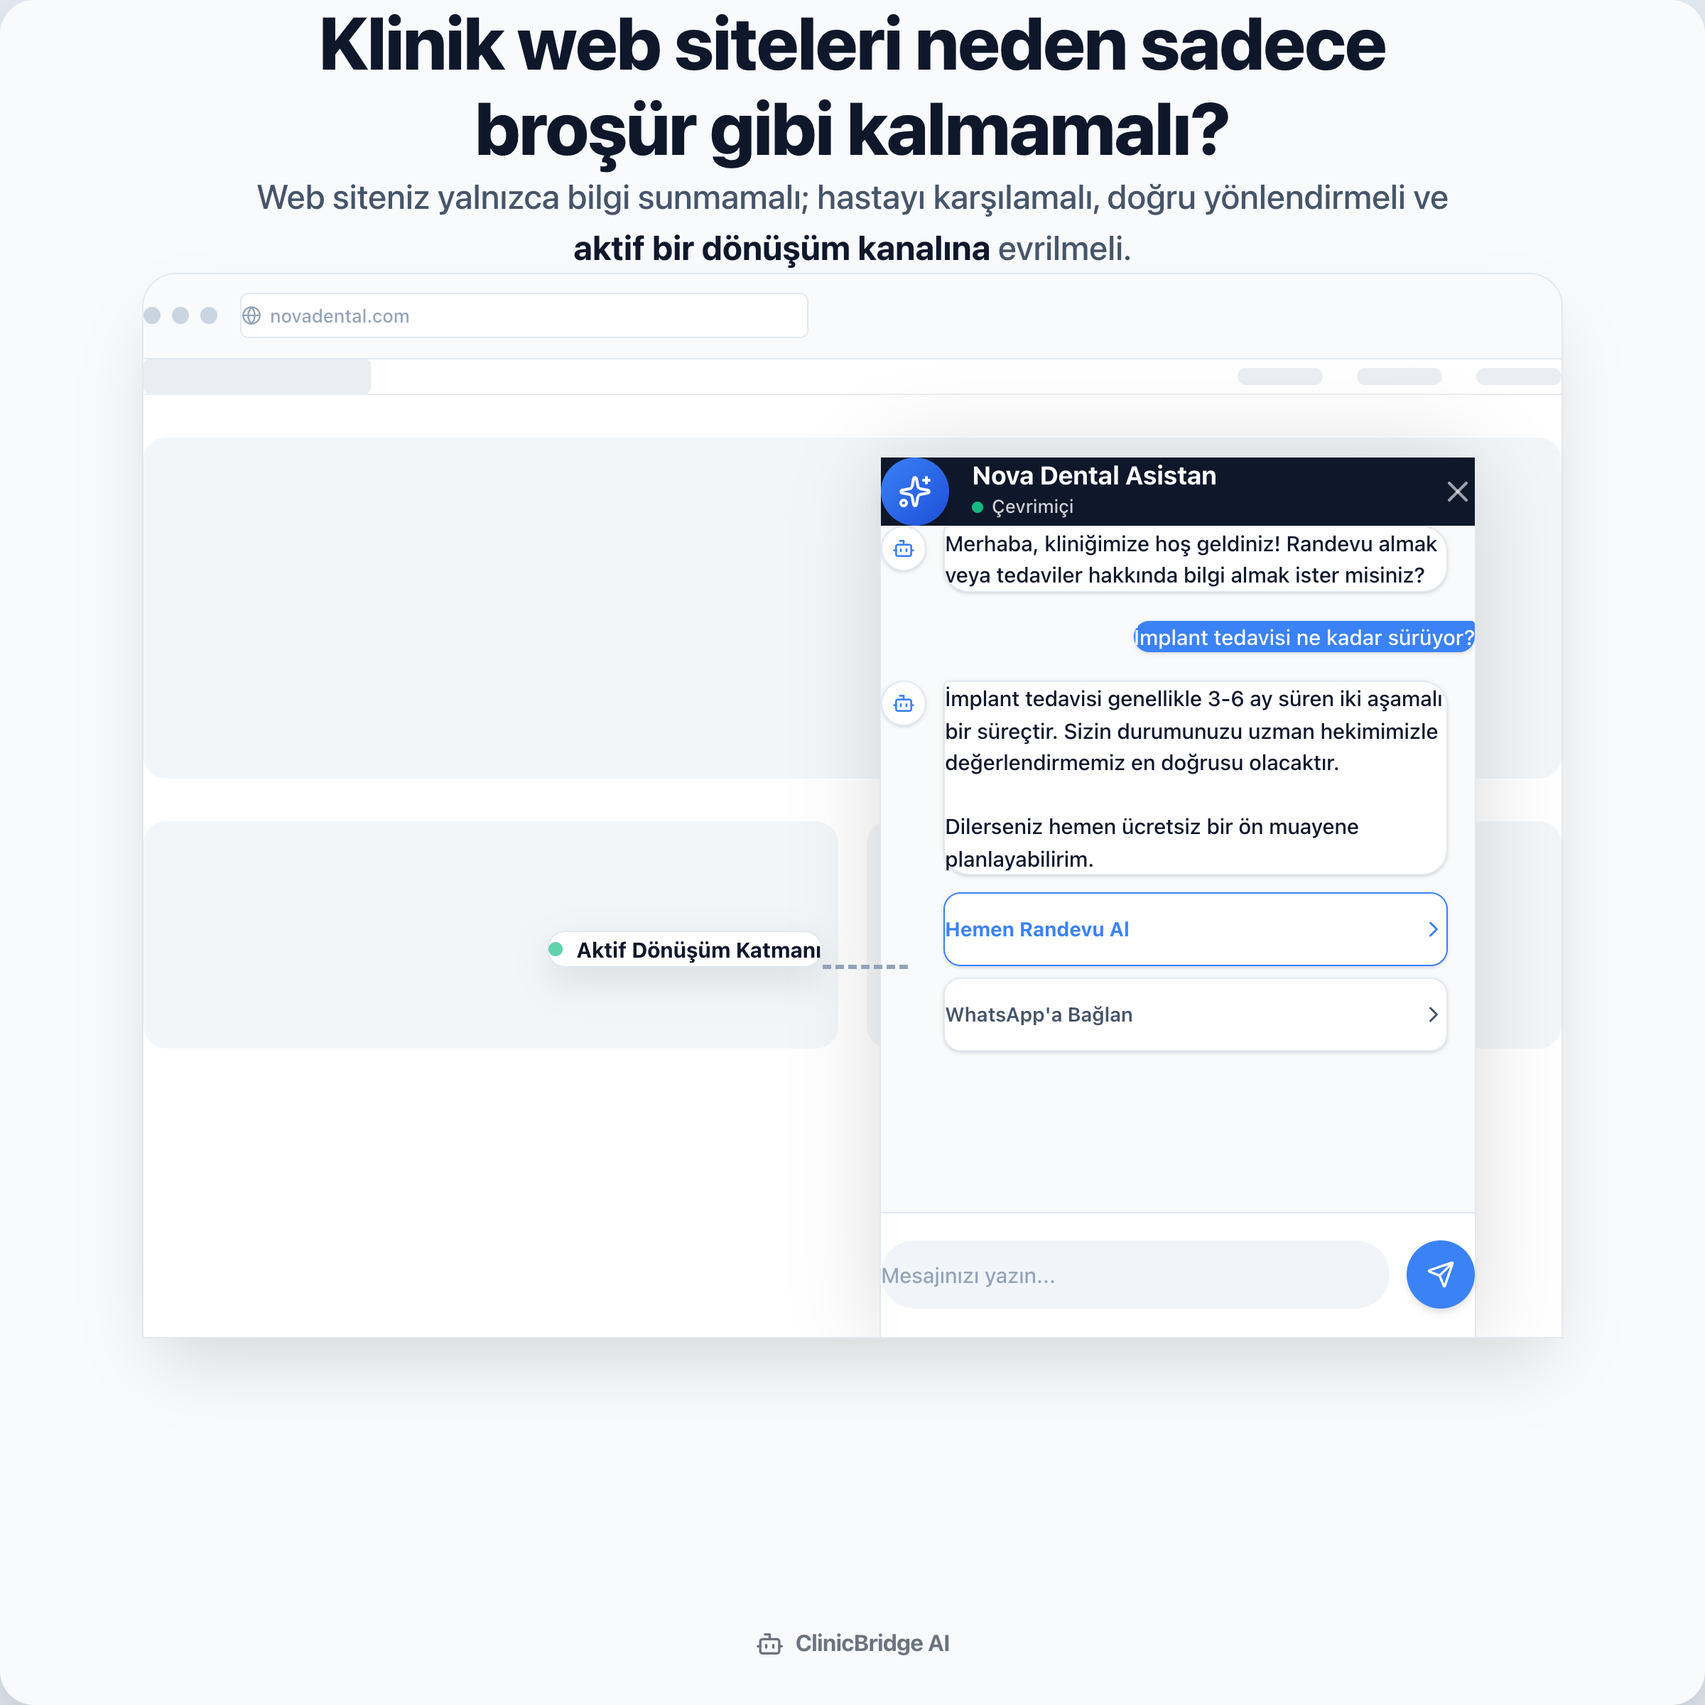
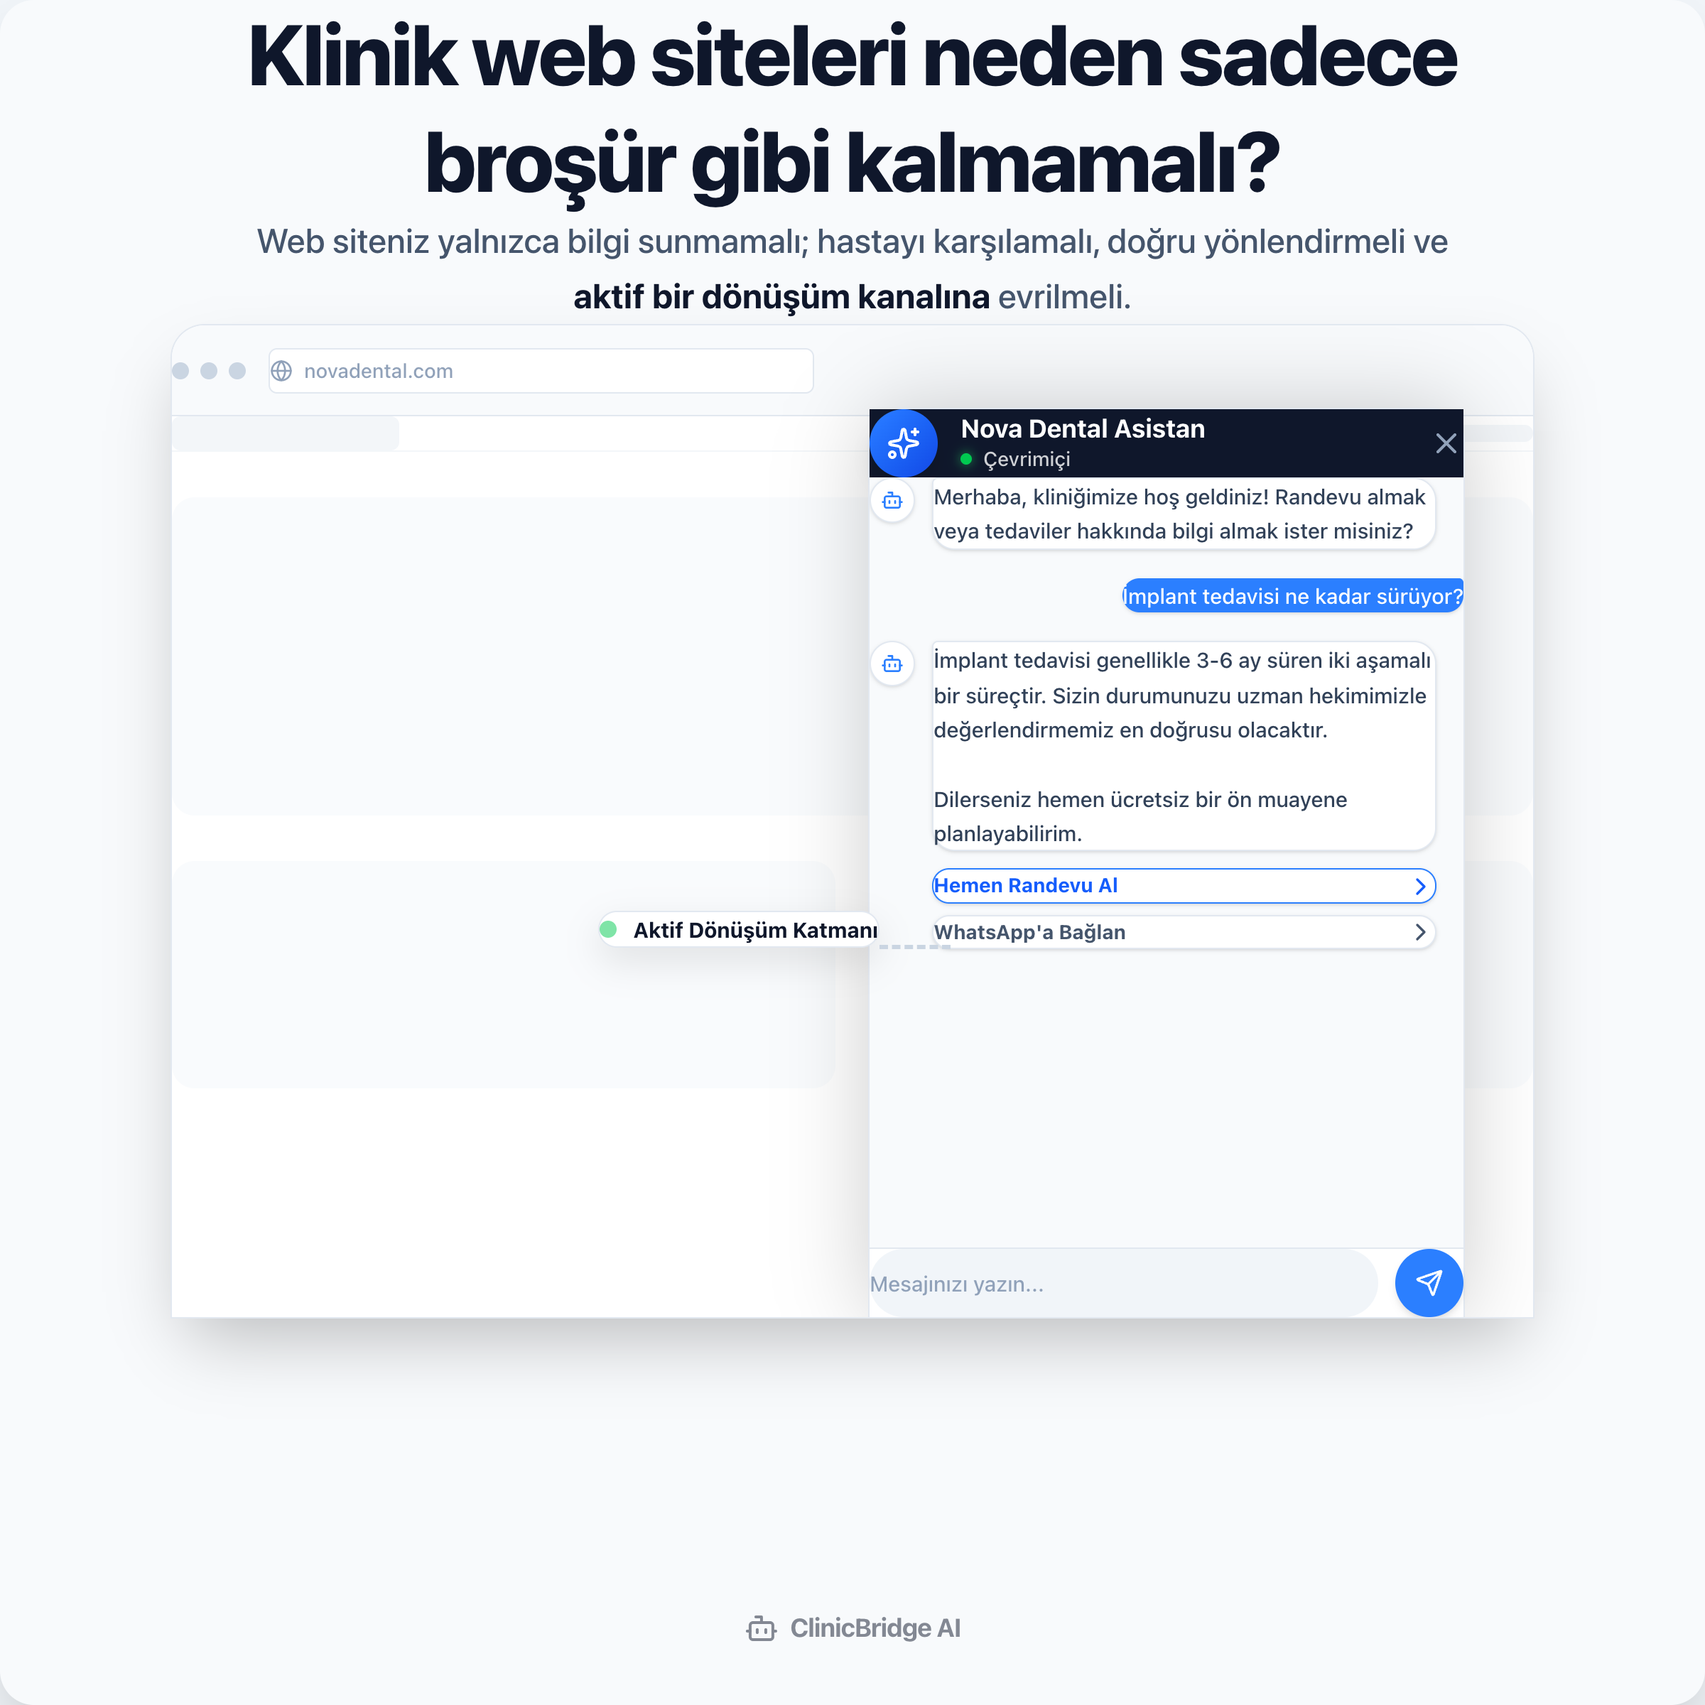
Fix Tailwind JIT arbitrary values missing padding in chat bubbles

diff --git a/app/social-posts/page.tsx b/app/social-posts/page.tsx
@@ -3,117 +3,117 @@ import { Bot, MessageSquare, Clock, ShieldCheck, ArrowRight, Calendar, Layout, S
 
 export default function SocialPostsPage() {
   return (
-    <div className="bg-slate-200 min-h-screen p-10 flex flex-col items-center gap-16 font-sans">
+    <div className="bg-slate-100 min-h-screen p-10 flex flex-col items-center gap-16 font-sans">
       
       {/* POST 1: Broşür Olmayan Web Sitesi - EXACT TOP-DOWN PRODUCT STYLE */}
-      <div id="post-1" className="w-[1200px] h-[1200px] shrink-0 bg-[#f8fafc] relative flex flex-col items-center pt-[100px] rounded-3xl overflow-hidden shadow-2xl box-border">
+      <div id="post-1" className="w-[1200px] h-[1200px] shrink-0 bg-[#f8fafc] relative flex flex-col items-center pt-24 rounded-3xl overflow-hidden shadow-2xl box-border">
         
         {/* TOP: Header & Subtitle */}
         <div className="flex flex-col items-center text-center px-20 z-10 w-full max-w-[1000px] shrink-0">
-          <h1 className="text-[#0f172a] text-[52px] font-[800] leading-[1.15] tracking-[-1px] mb-6">
+          <h1 className="text-slate-900 text-6xl font-extrabold leading-tight tracking-tight mb-6">
             Klinik web siteleri neden sadece <br/> broşür gibi kalmamalı?
           </h1>
-          <p className="text-[#475569] text-[24px] font-[500] leading-[1.5] max-w-[850px]">
-            Web siteniz yalnızca bilgi sunmamalı; hastayı karşılamalı, doğru yönlendirmeli ve <span className="font-[700] text-[#0f172a]">aktif bir dönüşüm kanalına</span> evrilmeli.
+          <p className="text-slate-600 text-2xl font-medium leading-relaxed max-w-[850px]">
+            Web siteniz yalnızca bilgi sunmamalı; hastayı karşılamalı, doğru yönlendirmeli ve <span className="font-bold text-slate-900">aktif bir dönüşüm kanalına</span> evrilmeli.
           </p>
         </div>
 
         {/* BOTTOM: Realistic Product UI Mockups */}
-        <div className="mt-[80px] w-full flex-1 relative flex justify-center items-start shrink-0">
+        <div className="mt-20 w-full flex-1 relative flex justify-center items-start shrink-0">
           
           {/* Main Website Mockup */}
-          <div className="w-[1000px] h-[750px] bg-white rounded-t-[24px] border border-[#e2e8f0] shadow-[0_25px_50px_-12px_rgba(0,0,0,0.15)] flex flex-col relative overflow-hidden box-border">
+          <div className="w-[960px] h-[700px] bg-white rounded-t-3xl border border-slate-200 shadow-2xl flex flex-col relative overflow-hidden box-border">
             
             {/* Browser Header */}
-            <div className="h-[60px] bg-[#f8fafc] border-b border-[#e2e8f0] flex items-center px-[24px] gap-[16px] shrink-0 box-border">
-              <div className="flex gap-[8px]">
-                <div className="w-[12px] h-[12px] rounded-full bg-[#cbd5e1]"></div>
-                <div className="w-[12px] h-[12px] rounded-full bg-[#cbd5e1]"></div>
-                <div className="w-[12px] h-[12px] rounded-full bg-[#cbd5e1]"></div>
+            <div className="h-16 bg-slate-50 border-b border-slate-200 flex items-center px-6 gap-4 shrink-0 box-border">
+              <div className="flex gap-2">
+                <div className="w-3 h-3 rounded-full bg-slate-300"></div>
+                <div className="w-3 h-3 rounded-full bg-slate-300"></div>
+                <div className="w-3 h-3 rounded-full bg-slate-300"></div>
               </div>
-              <div className="flex-1 max-w-[400px] bg-white border border-[#e2e8f0] h-[32px] rounded-[6px] flex items-center px-[16px] box-border">
-                <span className="text-[#94a3b8] text-[13px] font-[500] flex items-center gap-[6px]">
-                  <Globe className="w-[14px] h-[14px]"/> novadental.com
+              <div className="flex-1 max-w-sm bg-white border border-slate-200 h-8 rounded-md flex items-center px-4 box-border">
+                <span className="text-slate-400 text-sm font-medium flex items-center gap-2">
+                  <Globe className="w-4 h-4"/> novadental.com
                 </span>
               </div>
             </div>
 
             {/* Faint Website Content Background */}
-            <div className="flex-1 p-[40px] flex flex-col gap-[30px] opacity-[0.4] box-border">
-              <div className="flex justify-between items-center pb-[20px] border-b border-[#cbd5e1]">
-                <div className="w-[160px] h-[24px] bg-[#cbd5e1] rounded-[4px]"></div>
-                <div className="flex gap-[24px]">
-                  <div className="w-[60px] h-[12px] bg-[#cbd5e1] rounded-full"></div>
-                  <div className="w-[60px] h-[12px] bg-[#cbd5e1] rounded-full"></div>
-                  <div className="w-[60px] h-[12px] bg-[#cbd5e1] rounded-full"></div>
+            <div className="flex-1 p-10 flex flex-col gap-8 opacity-40 box-border pointer-events-none">
+              <div className="flex justify-between items-center pb-6 border-b border-slate-200">
+                <div className="w-40 h-6 bg-slate-200 rounded-md"></div>
+                <div className="flex gap-6">
+                  <div className="w-16 h-3 bg-slate-200 rounded-full"></div>
+                  <div className="w-16 h-3 bg-slate-200 rounded-full"></div>
+                  <div className="w-16 h-3 bg-slate-200 rounded-full"></div>
                 </div>
               </div>
-              <div className="w-full h-[240px] bg-[#e2e8f0] rounded-[16px]"></div>
-              <div className="flex gap-[20px]">
-                <div className="flex-1 h-[160px] bg-[#e2e8f0] rounded-[16px]"></div>
-                <div className="flex-1 h-[160px] bg-[#e2e8f0] rounded-[16px]"></div>
+              <div className="w-full h-56 bg-slate-100 rounded-2xl"></div>
+              <div className="flex gap-6">
+                <div className="flex-1 h-40 bg-slate-100 rounded-2xl"></div>
+                <div className="flex-1 h-40 bg-slate-100 rounded-2xl"></div>
               </div>
             </div>
 
             {/* THE AI LAYER (Realistic ClinicBridge Widget) */}
-            <div className="absolute right-[60px] bottom-0 w-[420px] bg-white rounded-t-[24px] shadow-[0_0_60px_rgba(0,0,0,0.15)] border border-[#e2e8f0] border-b-0 flex flex-col z-20 box-border" style={{ height: '620px' }}>
+            <div className="absolute right-12 bottom-0 w-[420px] bg-white rounded-t-3xl shadow-[0_0_60px_rgba(0,0,0,0.2)] border border-slate-200 border-b-0 flex flex-col z-20 box-border" style={{ height: '640px' }}>
               
               {/* Widget Header */}
-              <div className="bg-[#0f172a] p-[24px] flex items-center justify-between shrink-0 box-border">
-                <div className="flex items-center gap-[16px]">
-                  <div className="w-[48px] h-[48px] bg-[linear-gradient(135deg,#3b82f6,#1d4ed8)] rounded-full flex items-center justify-center shadow-lg shrink-0">
-                    <Sparkles className="w-[24px] h-[24px] text-white" />
+              <div className="bg-slate-900 p-5 flex items-center justify-between shrink-0 box-border">
+                <div className="flex items-center gap-4">
+                  <div className="w-12 h-12 bg-gradient-to-br from-blue-500 to-blue-700 rounded-full flex items-center justify-center shadow-lg shrink-0">
+                    <Sparkles className="w-6 h-6 text-white" />
                   </div>
                   <div className="flex flex-col justify-center">
-                    <h3 className="text-white font-[700] text-[18px] leading-tight m-0">Nova Dental Asistan</h3>
-                    <p className="text-white/80 text-[13px] flex items-center gap-[6px] mt-[4px] font-[500] m-0">
-                      <span className="w-[8px] h-[8px] bg-[#10b981] rounded-full inline-block"></span>
+                    <h3 className="text-white font-bold text-lg leading-tight m-0">Nova Dental Asistan</h3>
+                    <p className="text-white/80 text-sm flex items-center gap-2 mt-1 font-medium m-0">
+                      <span className="w-2 h-2 bg-green-500 rounded-full inline-block shadow-[0_0_8px_rgba(34,197,94,0.8)]"></span>
                       Çevrimiçi
                     </p>
                   </div>
                 </div>
-                <X className="w-[24px] h-[24px] text-white/60 shrink-0" />
+                <X className="w-6 h-6 text-slate-400 shrink-0" />
               </div>
 
               {/* Chat Body */}
-              <div className="flex-1 bg-[#f8fafc] p-[24px] flex flex-col gap-[20px] overflow-hidden box-border">
+              <div className="flex-1 bg-slate-50 p-5 flex flex-col gap-5 overflow-hidden box-border">
                 
                 {/* AI Welcome Message */}
-                <div className="flex gap-[12px] shrink-0 w-full box-border">
-                  <div className="w-[32px] h-[32px] rounded-full bg-white border border-[#e2e8f0] flex items-center justify-center shrink-0 shadow-sm mt-1">
-                    <Bot className="w-[16px] h-[16px] text-[#3b82f6]" />
+                <div className="flex gap-3 shrink-0 w-full box-border items-start">
+                  <div className="w-8 h-8 rounded-full bg-white border border-slate-200 flex items-center justify-center shrink-0 shadow-sm mt-1">
+                    <Bot className="w-4 h-4 text-blue-500" />
                   </div>
-                  <div className="bg-white border border-[#e2e8f0] p-[16px] rounded-[18px] rounded-tl-[4px] text-[#0f172a] text-[15px] shadow-sm leading-[1.5] max-w-[85%] font-[500] box-border break-words">
+                  <div className="bg-white border border-slate-200 px-4 py-3 rounded-2xl rounded-tl-sm text-slate-700 text-[15px] shadow-sm leading-relaxed max-w-[85%] font-medium box-border break-words">
                     Merhaba, kliniğimize hoş geldiniz! Randevu almak veya tedaviler hakkında bilgi almak ister misiniz?
                   </div>
                 </div>
 
                 {/* Patient Question */}
-                <div className="flex gap-[12px] self-end max-w-[85%] shrink-0 box-border">
-                  <div className="bg-[#3b82f6] p-[16px] rounded-[18px] rounded-tr-[4px] text-white text-[15px] shadow-sm leading-[1.5] font-[500] box-border break-words">
+                <div className="flex gap-3 self-end max-w-[85%] shrink-0 box-border items-start">
+                  <div className="bg-blue-500 px-4 py-3 rounded-2xl rounded-tr-sm text-white text-[15px] shadow-sm leading-relaxed font-medium box-border break-words">
                     İmplant tedavisi ne kadar sürüyor?
                   </div>
                 </div>
 
                 {/* AI Response & Action */}
-                <div className="flex gap-[12px] shrink-0 w-full box-border">
-                  <div className="w-[32px] h-[32px] rounded-full bg-white border border-[#e2e8f0] flex items-center justify-center shrink-0 shadow-sm mt-1">
-                    <Bot className="w-[16px] h-[16px] text-[#3b82f6]" />
+                <div className="flex gap-3 shrink-0 w-full box-border items-start">
+                  <div className="w-8 h-8 rounded-full bg-white border border-slate-200 flex items-center justify-center shrink-0 shadow-sm mt-1">
+                    <Bot className="w-4 h-4 text-blue-500" />
                   </div>
-                  <div className="flex flex-col gap-[12px] max-w-[85%] shrink-0 box-border">
-                    <div className="bg-white border border-[#e2e8f0] p-[16px] rounded-[18px] rounded-tl-[4px] text-[#0f172a] text-[15px] shadow-sm leading-[1.5] font-[500] box-border break-words">
+                  <div className="flex flex-col gap-3 max-w-[85%] shrink-0 box-border">
+                    <div className="bg-white border border-slate-200 px-4 py-3 rounded-2xl rounded-tl-sm text-slate-700 text-[15px] shadow-sm leading-relaxed font-medium box-border break-words">
                       İmplant tedavisi genellikle 3-6 ay süren iki aşamalı bir süreçtir. Sizin durumunuzu uzman hekimimizle değerlendirmemiz en doğrusu olacaktır.
                       <br/><br/>
                       Dilerseniz hemen ücretsiz bir ön muayene planlayabilirim.
                     </div>
                     
                     {/* Interactive CTA Buttons inside chat */}
-                    <div className="flex flex-col gap-[8px] shrink-0 box-border w-full">
-                      <div className="bg-white border border-[#3b82f6] text-[#3b82f6] p-[16px] rounded-[12px] text-[14px] font-[700] shadow-sm flex items-center justify-between hover:bg-[#eff6ff] transition-colors cursor-pointer box-border h-[52px]">
-                        Hemen Randevu Al <ChevronRight className="w-[18px] h-[18px] shrink-0"/>
+                    <div className="flex flex-col gap-2 shrink-0 box-border w-full">
+                      <div className="bg-white border border-blue-500 text-blue-600 px-4 py-3 rounded-xl text-[14px] font-bold shadow-sm flex items-center justify-between box-border">
+                        Hemen Randevu Al <ChevronRight className="w-5 h-5 shrink-0"/>
                       </div>
-                      <div className="bg-white border border-[#e2e8f0] text-[#475569] p-[16px] rounded-[12px] text-[14px] font-[600] shadow-sm flex items-center justify-between hover:bg-[#f8fafc] transition-colors cursor-pointer box-border h-[52px]">
-                        WhatsApp'a Bağlan <ChevronRight className="w-[18px] h-[18px] shrink-0"/>
+                      <div className="bg-white border border-slate-200 text-slate-600 px-4 py-3 rounded-xl text-[14px] font-bold shadow-sm flex items-center justify-between box-border">
+                        WhatsApp'a Bağlan <ChevronRight className="w-5 h-5 shrink-0"/>
                       </div>
                     </div>
                   </div>
@@ -122,25 +122,25 @@ export default function SocialPostsPage() {
               </div>
 
               {/* Input Area */}
-              <div className="p-[20px] border-t border-[#e2e8f0] bg-white flex items-center gap-[12px] shrink-0 box-border h-[88px]">
-                <div className="flex-1 bg-[#f1f5f9] rounded-full h-[48px] px-[20px] flex items-center text-[#94a3b8] text-[15px] font-[500] box-border">
+              <div className="p-4 border-t border-slate-200 bg-white flex items-center gap-3 shrink-0 box-border">
+                <div className="flex-1 bg-slate-100 rounded-full h-12 px-5 flex items-center text-slate-400 text-[15px] font-medium box-border">
                   Mesajınızı yazın...
                 </div>
-                <div className="w-[48px] h-[48px] bg-[#3b82f6] rounded-full flex items-center justify-center shrink-0 shadow-md box-border">
-                  <Send className="w-[20px] h-[20px] text-white ml-[2px] shrink-0" />
+                <div className="w-12 h-12 bg-blue-500 rounded-full flex items-center justify-center shrink-0 shadow-md box-border">
+                  <Send className="w-5 h-5 text-white ml-1 shrink-0" />
                 </div>
               </div>
 
             </div>
 
             {/* "ClinicBridge AI Katmanı" floating label to explain the context */}
-            <div className="absolute right-[520px] bottom-[260px] z-30 shrink-0">
-               <div className="bg-white px-[20px] py-[12px] rounded-full shadow-[0_10px_25px_rgba(0,0,0,0.1)] border border-[#e2e8f0] flex items-center gap-[10px] box-border">
-                 <div className="w-[10px] h-[10px] bg-[#10b981] rounded-full animate-pulse shrink-0"></div>
-                 <span className="text-[#0f172a] font-[700] text-[15px] whitespace-nowrap">Aktif Dönüşüm Katmanı</span>
+            <div className="absolute right-[460px] bottom-[260px] z-30 shrink-0">
+               <div className="bg-white px-5 py-3 rounded-full shadow-[0_10px_25px_rgba(0,0,0,0.1)] border border-slate-200 flex items-center gap-3 box-border">
+                 <div className="w-3 h-3 bg-green-500 rounded-full animate-pulse shrink-0"></div>
+                 <span className="text-slate-900 font-bold text-[15px] whitespace-nowrap">Aktif Dönüşüm Katmanı</span>
                </div>
                {/* Line pointing to widget */}
-               <div className="absolute right-[-60px] top-[24px] w-[60px] border-t-[3px] border-dashed border-[#94a3b8]"></div>
+               <div className="absolute right-[-50px] top-[24px] w-[50px] border-t-[3px] border-dashed border-slate-300"></div>
             </div>
 
           </div>
@@ -148,9 +148,9 @@ export default function SocialPostsPage() {
         </div>
 
         {/* Minimal Footer Logo */}
-        <div className="absolute bottom-[30px] left-1/2 -translate-x-1/2 flex items-center gap-[8px] opacity-[0.6] shrink-0">
-          <Bot className="w-[20px] h-[20px] text-[#0f172a]" />
-          <span className="text-[#0f172a] font-[700] text-[16px] tracking-tight">ClinicBridge AI</span>
+        <div className="absolute bottom-[40px] left-1/2 -translate-x-1/2 flex items-center gap-2 opacity-50 shrink-0">
+          <Bot className="w-6 h-6 text-slate-900" />
+          <span className="text-slate-900 font-bold text-lg tracking-tight">ClinicBridge AI</span>
         </div>
 
       </div>
